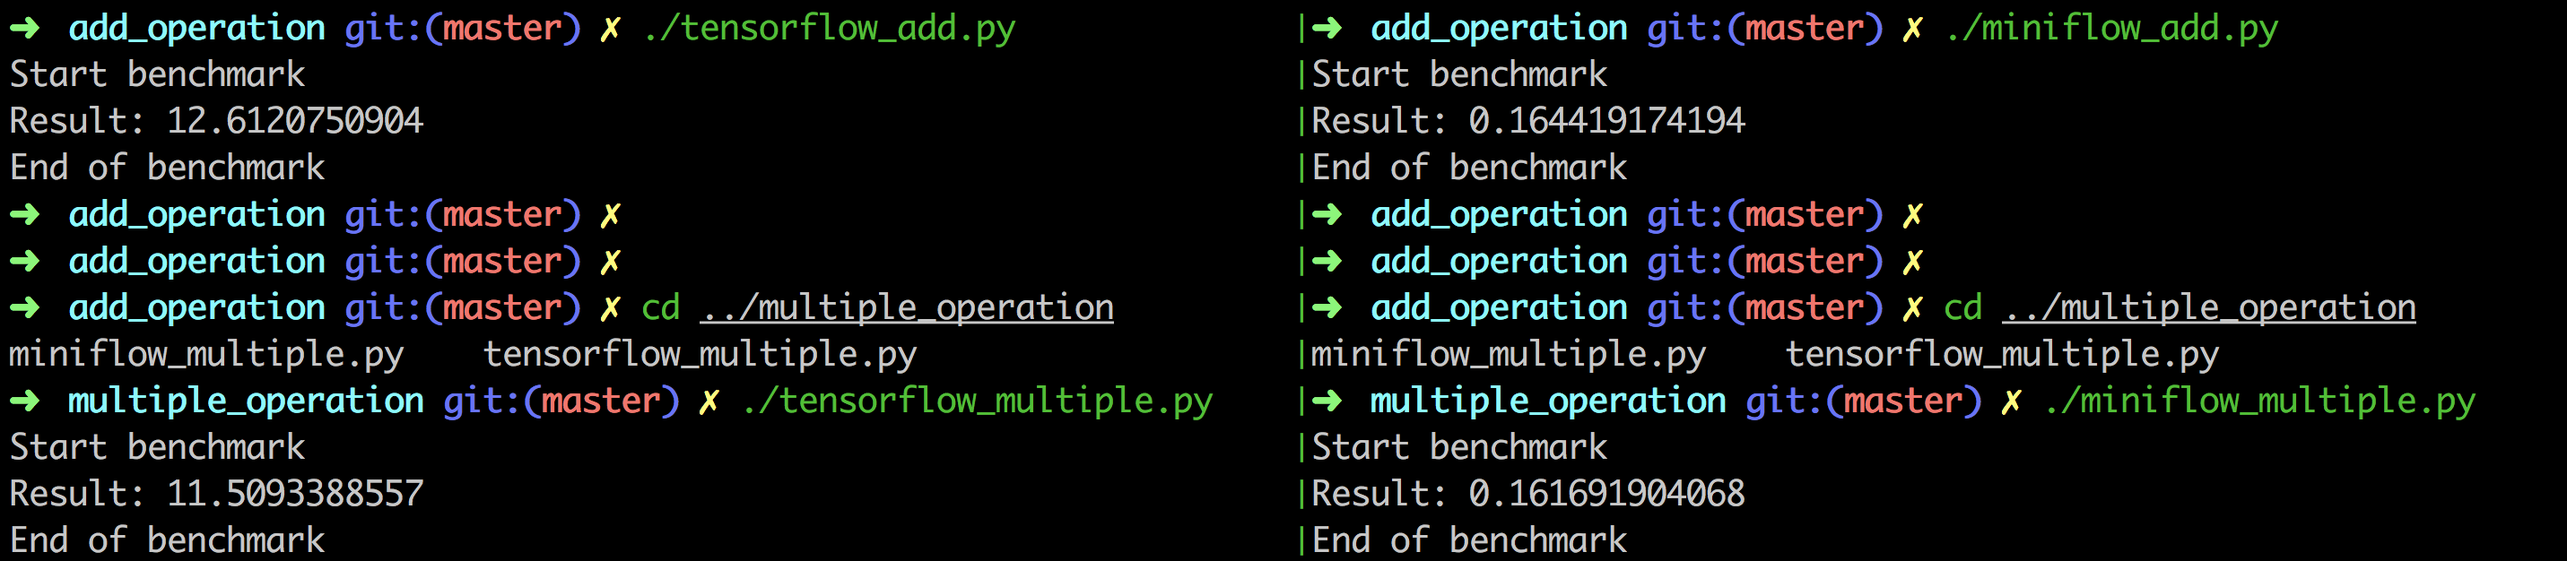
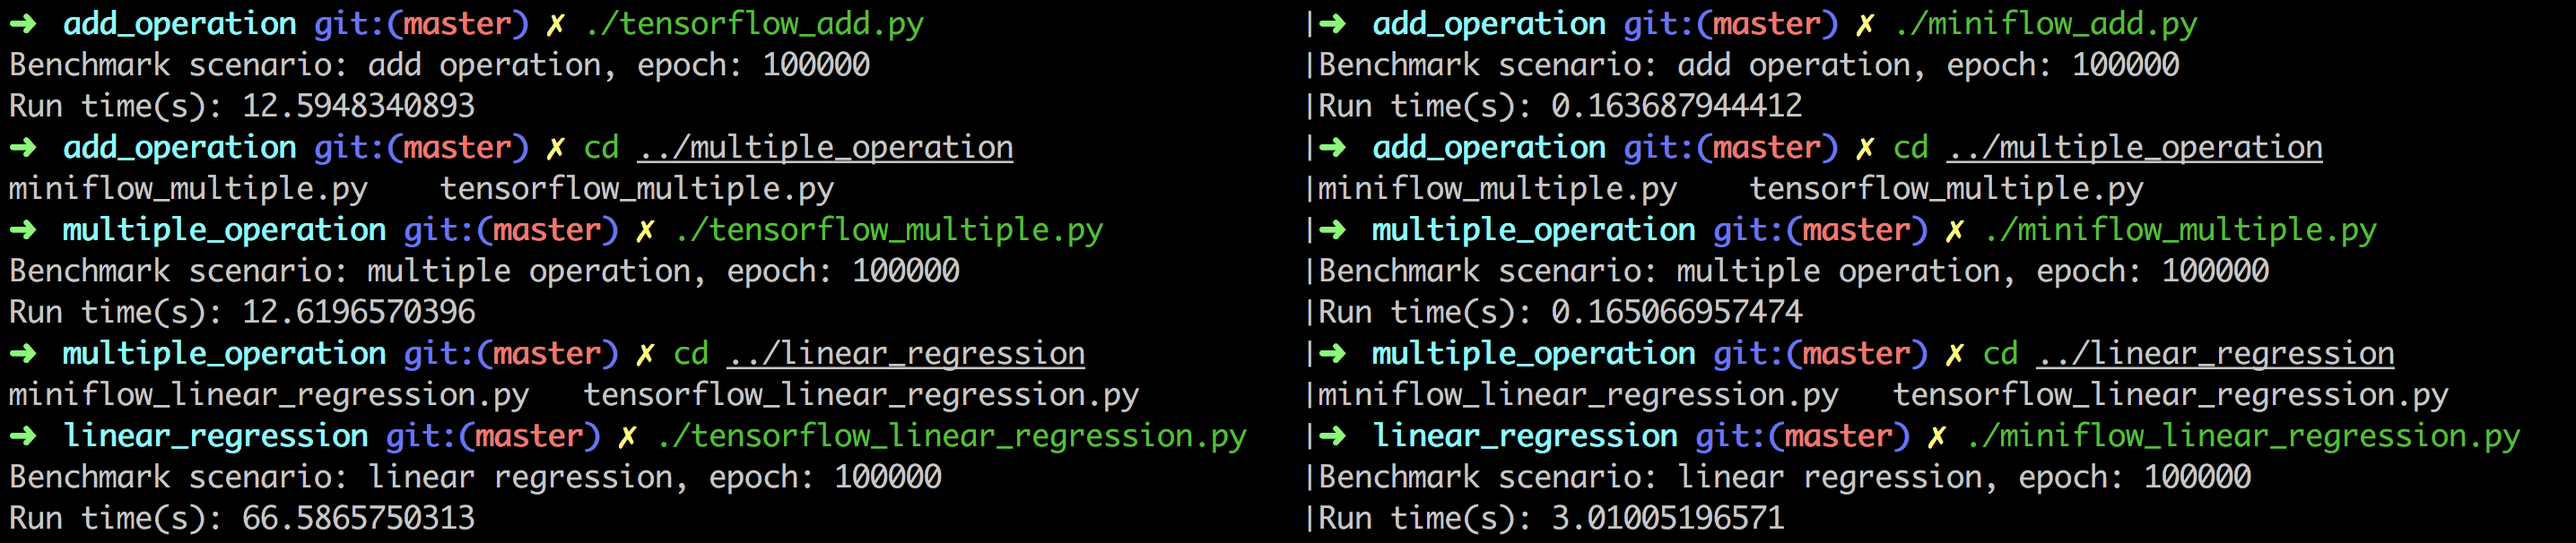
Add bechmark with linear regression model

Changed region(s): [[0.0, 0.0, 0.9951, 1.0]]

diff --git a/miniflow/ops.py b/miniflow/ops.py
@@ -229,7 +229,8 @@ class CubicOp(Op):
         grad = 3 * math.pow(self.op.forward(), 2)
     else:
       # op is other complex operation
-      grad = 3 * math.pow(self.op.forward(), 2) * self.op.grad(partial_derivative_opname)
+      grad = 3 * math.pow(self.op.forward(),
+                          2) * self.op.grad(partial_derivative_opname)
 
     return grad
 
@@ -485,6 +486,10 @@ def test_SquareOp():
   y = PlaceholderOp(float)
   y.set_value(3.0)
 
-  loss =  SquareOp(y - (w * x + b))
-  print("w: {}, forward: {}, grad: {}".format(w.get_value(), loss.forward(), loss.grad(w.name))) # 148.0
-  print("b: {}, forward: {}, grad: {}".format(b.get_value(), loss.forward(), loss.grad(b.name))) # 74.0
+  loss = SquareOp(y - (w * x + b))
+  print("w: {}, forward: {}, grad: {}".format(w.get_value(),
+                                              loss.forward(),
+                                              loss.grad(w.name)))  # 148.0
+  print("b: {}, forward: {}, grad: {}".format(b.get_value(),
+                                              loss.forward(),
+                                              loss.grad(b.name)))  # 74.0

diff --git a/examples/miniflow_examples/linear_regression.py b/examples/miniflow_examples/linear_regression.py
@@ -19,8 +19,11 @@ import miniflow.optimizer
 import miniflow.miniflow as tf
 
 
-def linear_regression():
-  epoch_number = 30
+def linear_regression(customized_epoch_number=None, verbose=True):
+  if customized_epoch_number == None:
+    epoch_number = 30
+  else:
+    epoch_number = customized_epoch_number
   learning_rate = 0.01
   train_features = [1.0, 2.0, 3.0, 4.0, 5.0]
   train_labels = [10.0, 20.0, 30.0, 40.0, 50.0]
@@ -46,8 +49,10 @@ def linear_regression():
       # Update model variables and print loss
       sess.run(train_op, feed_dict={x: train_feature, y: train_label})
       loss_value = sess.run(loss, feed_dict={x: 1.0, y: 10.0})
-      print("Epoch: {}, loss: {}, weight: {}, bias: {}".format(
-          epoch_index, loss_value, sess.run(weights), sess.run(bias)))
+
+      if verbose:
+        print("Epoch: {}, loss: {}, weight: {}, bias: {}".format(
+            epoch_index, loss_value, sess.run(weights), sess.run(bias)))
 
 
 def linear_regression_raw_api():

diff --git a/examples/tensorflow_examples/linear_regression.py b/examples/tensorflow_examples/linear_regression.py
@@ -17,8 +17,11 @@
 import tensorflow as tf
 
 
-def linear_regression():
-  epoch_number = 30
+def linear_regression(customized_epoch_number=None, verbose=True):
+  if customized_epoch_number == None:
+    epoch_number = 30
+  else:
+    epoch_number = customized_epoch_number
   learning_rate = 0.01
   train_features = [1.0, 2.0, 3.0, 4.0, 5.0]
   train_labels = [10.0, 20.0, 30.0, 40.0, 50.0]
@@ -45,8 +48,10 @@ def linear_regression():
       # Update model variables and print loss
       sess.run(train_op, feed_dict={x: train_feature, y: train_label})
       loss_value = sess.run(loss, feed_dict={x: 1.0, y: 10.0})
-      print("Epoch: {}, loss: {}, weight: {}, bias: {}".format(
-          epoch_index, loss_value, sess.run(weights), sess.run(bias)))
+
+      if verbose:
+        print("Epoch: {}, loss: {}, weight: {}, bias: {}".format(
+            epoch_index, loss_value, sess.run(weights), sess.run(bias)))
 
 
 def main():

diff --git a/benchmark/linear_regression/tensorflow_linear_regression.py b/benchmark/linear_regression/tensorflow_linear_regression.py
@@ -15,25 +15,20 @@
 # limitations under the License.
 
 import sys
-sys.path.append("../../")
+sys.path.append("../../examples/tensorflow_examples/")
 
-import miniflow.miniflow as tf
 import time
+
+import linear_regression
 
 
 def main():
   epoch_number = 100000
-  print("Benchmark scenario: {}, epoch: {}".format("add operation",
+  print("Benchmark scenario: {}, epoch: {}".format("linear regression",
                                                    epoch_number))
 
-  sess = tf.Session()
-  a = tf.constant(10.0)
-  b = tf.constant(32.0)
-  c = a + b
-
   start_time = time.time()
-  for i in range(epoch_number):
-    sess.run(c)
+  linear_regression.linear_regression(epoch_number, False)
   end_time = time.time()
 
   print("Run time(s): {}".format(end_time - start_time))  # Almost 13.787735939

diff --git a/benchmark/linear_regression/miniflow_linear_regression.py b/benchmark/linear_regression/miniflow_linear_regression.py
@@ -16,24 +16,21 @@
 
 import sys
 sys.path.append("../../")
+sys.path.append("../../examples/miniflow_examples/")
 
 import miniflow.miniflow as tf
 import time
 
+import linear_regression
+
 
 def main():
   epoch_number = 100000
-  print("Benchmark scenario: {}, epoch: {}".format("add operation",
+  print("Benchmark scenario: {}, epoch: {}".format("linear regression",
                                                    epoch_number))
 
-  sess = tf.Session()
-  a = tf.constant(10.0)
-  b = tf.constant(32.0)
-  c = a + b
-
   start_time = time.time()
-  for i in range(epoch_number):
-    sess.run(c)
+  linear_regression.linear_regression(epoch_number, False)
   end_time = time.time()
 
   print("Run time(s): {}".format(end_time - start_time))  # Almost 13.787735939

diff --git a/benchmark/multiple_operation/tensorflow_multiple.py b/benchmark/multiple_operation/tensorflow_multiple.py
@@ -19,8 +19,9 @@ import time
 
 
 def main():
-  print("Start benchmark")
   epoch_number = 100000
+  print("Benchmark scenario: {}, epoch: {}".format("multiple operation",
+                                                   epoch_number))
 
   sess = tf.Session()
   a = tf.constant(10.0)
@@ -32,8 +33,8 @@ def main():
     sess.run(c)
   end_time = time.time()
 
-  print("Result: {}".format(end_time - start_time))  # Almost 0.196532011032
-  print("End of benchmark")
+  print(
+      "Run time(s): {}".format(end_time - start_time))  # Almost 0.196532011032
 
 
 if __name__ == "__main__":

diff --git a/benchmark/add_operation/tensorflow_add.py b/benchmark/add_operation/tensorflow_add.py
@@ -19,8 +19,9 @@ import time
 
 
 def main():
-  print("Start benchmark")
   epoch_number = 100000
+  print("Benchmark scenario: {}, epoch: {}".format("add operation",
+                                                   epoch_number))
 
   sess = tf.Session()
   a = tf.constant(10.0)
@@ -32,8 +33,8 @@ def main():
     sess.run(c)
   end_time = time.time()
 
-  print("Result: {}".format(end_time - start_time))  # Almost 0.196532011032
-  print("End of benchmark")
+  print(
+      "Run time(s): {}".format(end_time - start_time))  # Almost 0.196532011032
 
 
 if __name__ == "__main__":

diff --git a/benchmark/multiple_operation/miniflow_multiple.py b/benchmark/multiple_operation/miniflow_multiple.py
@@ -22,8 +22,9 @@ import time
 
 
 def main():
-  print("Start benchmark")
   epoch_number = 100000
+  print("Benchmark scenario: {}, epoch: {}".format("multiple operation",
+                                                   epoch_number))
 
   sess = tf.Session()
   a = tf.constant(10.0)
@@ -35,8 +36,7 @@ def main():
     sess.run(c)
   end_time = time.time()
 
-  print("Result: {}".format(end_time - start_time))  # Almost 13.787735939
-  print("End of benchmark")
+  print("Run time(s): {}".format(end_time - start_time))  # Almost 13.787735939
 
 
 if __name__ == "__main__":

diff --git a/README.md b/README.md
@@ -4,8 +4,9 @@
 
 MiniFlow is the numerical computation library which implements [TensorFlow](https://github.com/tensorflow/tensorflow) APIs.
 
-* Support autograd for composite operations
-* Support operations in C++ backend with swig
+* Support math calculations and composited operations
+* Support automatic partial derivative and chain rule
+* Support operations in C++/Python backends with swig
 * Support lazy evaluation with computation graph
 * Support the compatiable APIs with TensorFlow
 

diff --git a/benchmark/README.md b/benchmark/README.md
@@ -11,3 +11,9 @@ Miniflow: 0.164419174194
 TensorFlow: 11.5093388557
 
 Miniflow: 0.161691904068
+
+## Linear regression
+
+TensorFlow: 66.5865750313
+
+MiniFlow: 3.01005196571
